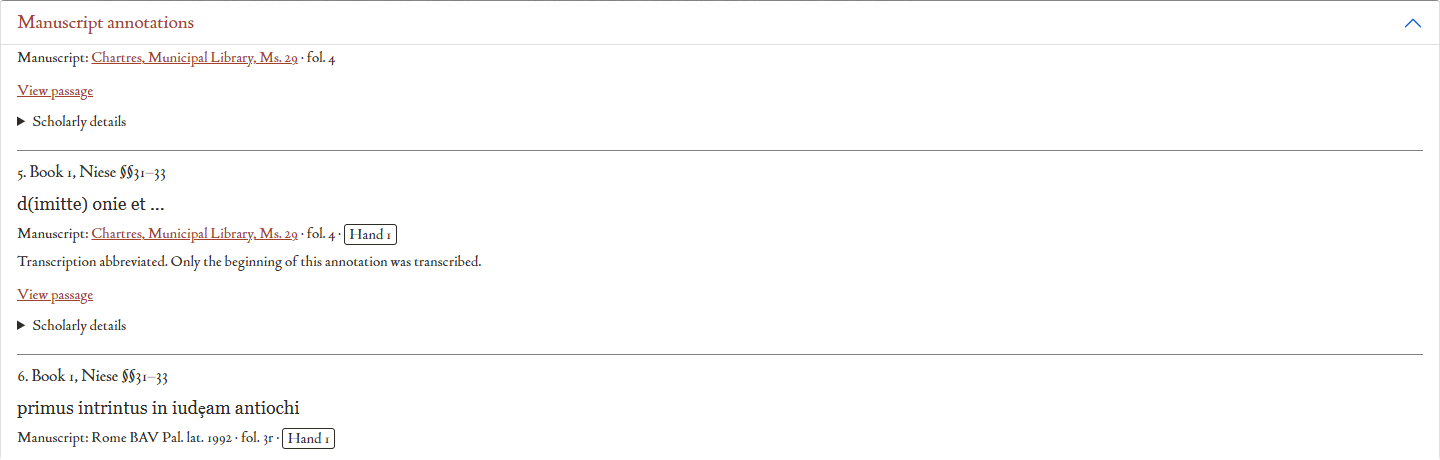
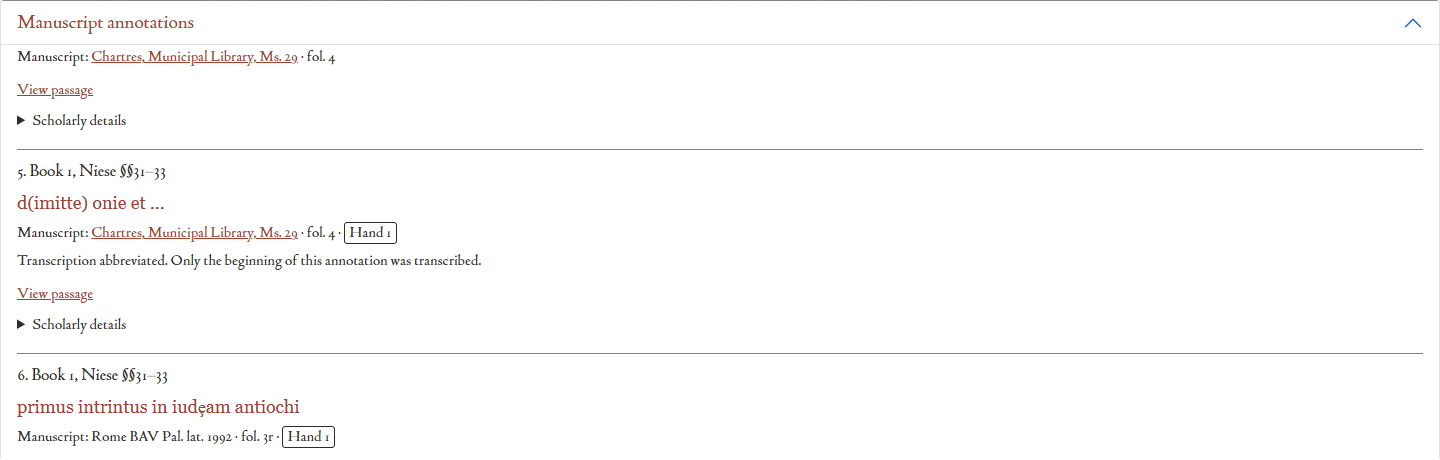
Streamline annotation wording and apply brand colours

diff --git a/assets/js/manuscriptAnnotations.js b/assets/js/manuscriptAnnotations.js
@@ -296,14 +296,19 @@
     const number = options.startNumber || 1;
     const parts = interpreted.parts.map((part, index) => {
       const anchor = `${interpreted.anchor}-at-${part.offset}`;
-      const category = part.transcriptionStatus === 'partial' ? l.partial
+      const provisional = part.provisionalReading?.[lang] || part.provisionalReading?.en;
+      const category = provisional ? null : part.transcriptionStatus === 'partial' ? l.partial
         : part.category === 'symbolic' ? l.symbolic : part.category === 'untranscribable' ? l.untranscribable
         : part.category === 'unresolved' ? l.unresolved : !part.text ? l.noTranscription : null;
       const segments = annotationTextSegments(part, lang, record.work);
-      const text = part.displayText ? escape(part.displayText) : segments.map(segment => segment.kind === 'editorial'
+      const text = provisional ? provisional.split(/(\[[^\]]+\])/u).map(segment => /^\[/u.test(segment)
+        ? `<span class="annotation-editorial-note" lang="${lang}">${escape(segment)}</span>` : escape(segment)).join('')
+        : part.displayText ? escape(part.displayText) : segments.map(segment => segment.kind === 'editorial'
         ? `<span class="annotation-editorial-note" lang="en">${escape(segment.text)}</span>` : escape(segment.text)).join('');
       const editorialOnly = segments.length && segments.every(segment => segment.kind === 'editorial');
       const description = translateEditorialDescription(part.description, lang);
+      const categoryEntry = part.category === 'symbolic' || part.category === 'untranscribable';
+      const categoryWording = categoryEntry ? [escape(description), text].filter(Boolean).join(' · ') : '';
       const handLabel = part.hand ? `${l.hand} ${part.hand}` : '';
       const codes = part.codes.map(code => `${code} = ${numberedHands[code] ? `${l.hand} ${numberedHands[code]}`
         : ({'#': l.symbolic, '§': part.transcriptionStatus === 'partial' ? l.untranscribedText : l.untranscribable})[code] || l.unresolved}`).join('; ');
@@ -314,10 +319,11 @@
         [l.completeness, part.transcriptionStatus === 'partial' ? l.partial : part.abbreviated ? l.abbreviated : part.ellipsisUnresolved ? l.uncertainEllipsis
           : part.category === 'untranscribable' ? l.untranscribable : part.category === 'symbolic' ? l.symbolic
             : !part.text ? l.noTranscription : l.recorded]];
-      if (record.editorialSource) fields.push([l.sourceRecord, record.editorialSource]);
+      if (record.editorialSource) fields.push([l.sourceRecord, `${l.recovered}; ${record.editorialSource}`]);
       if (record.editorialEvidenceUrl) fields.push([l.evidence, record.editorialEvidenceUrl]);
       if (part.editorialExplanation) fields.push([l.evidence, part.editorialExplanation[lang] || part.editorialExplanation.en]);
-      if (part.displayText) fields.push([l.originalFragment, part.text], [l.reviewedReading, part.displayText]);
+      if (part.displayText || provisional) fields.push([l.originalFragment, part.text]);
+      if (part.displayText) fields.push([l.reviewedReading, part.displayText]);
       if (part.provisionalReading) fields.push([l.provisionalReading, part.provisionalReading[lang] || part.provisionalReading.en]);
       if (ms.verificationStatus !== 'verified') fields.push([l.manuscript, lang === 'fr' ? 'Référence du manuscrit à vérifier ; désignation originale conservée' : 'Manuscript reference requires review; original designation retained']);
       if (record.originalAlignmentReference != null) fields.push([lang === 'fr' ? 'Référence source du passage' : 'Original passage source reference', record.originalAlignmentReference]);
@@ -326,13 +332,9 @@
         `<dt>${escape(key)}</dt><dd>${escape(value)}</dd>`).join('')}</dl><p>${l.original}</p><pre>${escape(interpreted.originalNotation)}</pre></details>`;
       return `<article class="manuscript-annotation" id="${escape(anchor)}" tabindex="-1" data-alignment-unit="${escape(record.alignmentUnitId)}">
         <h4><span class="annotation-number">${number + index}.</span> ${escape(citation.publicCitation)}</h4>
-        ${record.editorialSupplementId ? `<p class="annotation-status">${l.recovered}</p>` : ''}
-        ${category ? `<p class="annotation-category">${escape(category)}</p>` : ''}
-        ${part.displayText ? `<p class="annotation-status">${l.reviewedReading}</p>` : ''}
-        ${text ? `<p class="${editorialOnly ? 'annotation-description' : 'annotation-transcription'}"${part.category === 'textual' && !editorialOnly ? ' lang="la"' : ''}>${editorialOnly ? `${l.editorialNote}: ` : ''}${part.untranscribedBefore ? `<span class="annotation-editorial-note" lang="${lang}">[${l.untranscribedText}]</span> ` : ''}${text}</p>` : ''}
-        ${part.provisionalReading ? `<p class="annotation-description">${l.provisionalReading}: <span lang="la">${escape(part.provisionalReading[lang] || part.provisionalReading.en)}</span></p>` : ''}
-        ${part.editorialExplanation ? `<p class="annotation-description" lang="${lang}">${escape(part.editorialExplanation[lang] || part.editorialExplanation.en)}</p>` : ''}
-        ${description ? `<p class="annotation-description" lang="${lang}">${l.editorialNote}: ${escape(description)}</p>` : ''}
+        ${category ? `<p class="annotation-category">${escape(category)}${categoryWording ? `: <span class="annotation-wording">${categoryWording}</span>` : ''}</p>` : ''}
+        ${text && !categoryEntry ? `<p class="${editorialOnly ? 'annotation-description' : 'annotation-transcription'}"${part.category === 'textual' && !editorialOnly ? ' lang="la"' : ''}>${editorialOnly ? `${l.editorialNote}: ` : ''}${part.untranscribedBefore && !provisional ? `<span class="annotation-editorial-note" lang="${lang}">[${l.untranscribedText}]</span> ` : ''}${text}${provisional || part.displayText ? ` <span class="annotation-reading-status" lang="${lang}">(${escape((provisional ? l.provisionalReading : l.reviewedReading).toLocaleLowerCase(lang))})</span>` : ''}</p>` : ''}
+        ${description && !categoryEntry ? `<p class="annotation-description" lang="${lang}">${l.editorialNote}: ${escape(description)}</p>` : ''}
         <p class="annotation-meta">${l.manuscript}: ${ms.url ? `<a href="${ms.url}">${escape(ms.displayName)}</a>` : escape(ms.displayName)}${part.folio?.reference ? ` · fol. ${escape(part.folio.reference)}` : ''}${handLabel ? ` · <span class="annotation-hand">${escape(handLabel)}</span>` : ''}</p>
         ${part.abbreviated ? `<p class="annotation-status">${l.abbreviated}. ${l.abbreviationHelp}</p>` : ''}
         ${part.issues.length ? `<p class="annotation-status">${part.ellipsisUnresolved ? l.uncertainEllipsis : l.review}</p>` : ''}

diff --git a/_sass/_manuscript-annotations.scss b/_sass/_manuscript-annotations.scss
@@ -15,7 +15,10 @@
   .manuscript-annotation { padding: .65rem 0; border-top: 1px solid var(--global-text-color-light); }
   h4 { font-family: inherit; font-size: 1rem; line-height: 1.5; margin: 0 0 .3rem; }
   p { margin: .3rem 0; }
-  .annotation-transcription { font-family: var(--font-serif, Georgia, serif); font-size: 1.12rem; line-height: 1.6; white-space: pre-wrap; overflow-wrap: anywhere; }
+  .annotation-transcription, .annotation-wording { color: var(--lj-brand-accent, var(--global-theme-color)); font-family: var(--font-serif, Georgia, serif); font-size: 1.12rem; line-height: 1.6; }
+  .annotation-transcription { white-space: pre-wrap; overflow-wrap: anywhere; }
+  .annotation-transcription .annotation-editorial-note, .annotation-wording .annotation-editorial-note, .annotation-reading-status { color: var(--global-text-color); }
+  .annotation-reading-status { font-size: .85em; font-style: normal; }
   .annotation-category { font-style: italic; }
   .annotation-meta, .annotation-status, .annotation-description, .annotation-details { font-size: .9rem; }
   .annotation-editorial-note { font-family: inherit; font-size: .9rem; font-style: normal; }

diff --git a/_docs/annotation-display/EDITORIAL-READINGS-20261027.md b/_docs/annotation-display/EDITORIAL-READINGS-20261027.md
@@ -4,7 +4,7 @@
 
 ## Bern 118, folio 2v
 
-Original source record remains exactly `[¤2v] (§) dicit (@1) issa (#2 nota NT)`. The editor clarified that untranscribed material precedes the surviving `dicit`. The first component now displays **Partly transcribed**, with `[Untranscribed text] dicit`. The editorial proposal `david [uncertain text] dicit` appears separately as **Provisional reading**; it does not replace the source transcription, resolve the unknown middle words or assign a hand.
+Original source record remains exactly `[¤2v] (§) dicit (@1) issa (#2 nota NT)`. The editor clarified that untranscribed material precedes the surviving `dicit`. Following the requested display cleanup, the first component presents one reading: **david [uncertain text] dicit (provisional reading)**. Its partial-transcription status, surviving original fragment `dicit`, editorial explanation and complete original notation are retained in Scholarly details. The main panel does not duplicate the reading or its explanation. The proposal does not replace the source transcription, resolve the unknown middle words or assign a hand.
 
 This interpretation is guarded by the exact work, book, alignment unit, witness and original record. It is not a global reinterpretation of every § entry. The independent category and transcription-status model supports partial transcription without treating it as deliberate abbreviation.
 
@@ -24,7 +24,11 @@ The editor agreed with the facsimile-supported locations and requested their app
 
 The third entry displays the reviewed reading `issa si a uiro diuisa`. The grammatical preference for `diuisa` uses the project's Latin account of the woman's formation from Adam; it is not inferred from automated image transcription. The worksheet's `si` remains explicitly uncertain. The full exact original cell and the original fragment `issa si a uira diuisat` remain in scholarly details alongside the source workbook/cell and the [e-codices facsimile](https://www.e-codices.unifr.ch/en/fmb/cb-0098/1v).
 
-These are labelled **Recovered worksheet annotation**. They use stable presentation anchors derived from the worksheet entry, not invented canonical IDs or display numbers. The source offset selects each component without altering the cell. They are inserted after the existing entries for the relevant unit, preserving every original XML reading's relative order. Navigation and highlighting continue to cover entire alignment units.
+Their **Recovered worksheet annotation** provenance and editorial explanations appear in Scholarly details; the reviewed wording has a short inline qualification. They use stable presentation anchors derived from the worksheet entry, not invented canonical IDs or display numbers. The source offset selects each component without altering the cell. They are inserted after the existing entries for the relevant unit, preserving every original XML reading's relative order. Navigation and highlighting continue to cover entire alignment units.
+
+Actual annotation words use the site's existing `--lj-brand-accent` colour, with the existing global theme colour as fallback. Explanatory brackets and inline reading-status labels retain the normal text colour. Both site themes retain the transcription font, so colour is an additional cue rather than the only distinction. Browser checks verify text contrast of at least 4.5:1 and wrapping at 390 pixels.
+
+Symbolic entries combine their category and supplied description on one line, for example **Symbolic annotation: nota NT**. The label uses the normal text colour and the description uses the annotation accent colour. Entries marked as untranscribable likewise combine any supplied wording/description with their distinct category label. Neither category is inferred from the other, and entries without supplied wording show only their category.
 
 ## Source preservation and unresolved references
 

diff --git a/_docs/annotation-display/QA-REPORT.md b/_docs/annotation-display/QA-REPORT.md
@@ -4,6 +4,8 @@ Updated 27 October 2026. **PASS**, with the source and environment limitations b
 
 Latest Book I follow-up: **53 annotation/citation/translation tests and five Python tests pass**. The original XML inventory remains 2,958 records / 6,202 components; one component now has a confirmed partial-transcription status. Three recovered worksheet components are separately counted and displayed at their editor-reviewed citations, giving 6,205 combined display components. See [the approved editorial update report](EDITORIAL-READINGS-20261027.md). The prior certifications described below retain their recorded scope.
 
+Concise display follow-up: browser checks verify a single provisional reading with its explanation inside Scholarly details; symbolic category and supplied description on one line; accent-coloured wording with neutral editorial qualifiers; text contrast of at least 4.5:1 in both themes; and no horizontal panel overflow at 390 pixels. The data model, original notation, component counts and associations are unchanged.
+
 Current follow-up: **45 annotation/citation/translation tests and five Python citation/preservation tests pass**. Eleven additional tests verify the [editor-confirmed historical nine-hand key](HISTORICAL-HAND-KEY.md), context-sensitive `¤`, actual additional hand prefixes and the newly separated Hand 8 component. The ten translation tests audit all 216 source-description variants and preserve every recorded-text segment across all 2,958 readings. The existing corpus, DEH and search asset guards are rerun. The 565 search tests below are the previous certification of unchanged search code. See [ENGLISH-EDITORIAL-NOTES.md](ENGLISH-EDITORIAL-NOTES.md).
 
 ## Preservation and interpretation
@@ -46,7 +48,7 @@ The original redesign certification comprises **594 Node/Python tests**, plus th
 
 ## Visual checks
 
-The current browser run produced 22 screenshots covering ten before/after examples plus desktop dark mode and mobile dark mode. Two additional English-editorial images remain available. [Screenshot index](SCREENSHOTS.md).
+The main browser run produced 22 screenshots covering ten before/after examples plus desktop dark mode and mobile dark mode. Additional English-editorial, approved Book I and concise-layout images are available in the [screenshot index](SCREENSHOTS.md).
 
 Images were inspected after rendering. They include actual Hands 1, 2, 3, 5, 6 and 8, the newly separated Bodmer component, several annotations on the same folio side, symbolic and untranscribable entries, and the supported Chartres abbreviated transcription. Hands 4, 7 and 9 are absent from the source readings and are not fabricated for screenshots. Panel spacing and focus offsets were corrected during the initial visual review. Theme transitions were disabled only during screenshot capture, so captured colours represent the settled interface. Mobile panel overflow was checked at 390 pixels.
 

diff --git a/_docs/annotation-display/CHANGE-REPORT.md b/_docs/annotation-display/CHANGE-REPORT.md
@@ -6,6 +6,10 @@ Implementation commit: `46ec691d6bce48af0d93191e2eca7453223fb3d8`. It contains t
 
 ## Result
 
+Display cleanup: the editor-requested concise layout presents the provisional Bern reading once, with its qualification inline. Explanations, partial-transcription status and recovery provenance remain in Scholarly details. All annotation words use the site accent colour, adapted to light/dark mode; editorial qualifiers use the normal text colour. No scholarly data or interpretation changed in this cleanup.
+
+Symbolic and untranscribable entries combine their distinct category label and any supplied description/wording on one line. In **Symbolic annotation: nota NT**, the supplied `nota NT` uses the same accent colour as other annotation wording.
+
 Approved Book I follow-up: Bern 118's `§ dicit` now identifies a partial transcription and separately labels the editor's provisional David reading. Three recovered Bodmer 98 worksheet annotations appear at their reviewed existing alignment units; `uiro diuisa` is the reviewed reading and `si` remains uncertain. Original XML and the complete worksheet notation are preserved. The missing note targets remain unresolved. See [the editorial update report](EDITORIAL-READINGS-20261027.md). The suite now has 53 annotation/citation/translation tests plus five Python tests.
 
 Historical hand-key follow-up, 27 October: the editor confirmed the exact sequence through Hand 9. The shared interpreter now recognises the additional codes in annotation prefixes, keeps the bracketed `¤` folio role distinct, and separates the explicit `(³1)yo` component in Bodmer 98. All 84 observed additional prefixes resolve as Hands 5, 6 and 8. No Hand 4, 7 or 9 annotations are invented. See [the evidence and preservation report](HISTORICAL-HAND-KEY.md). The current suite has 45 annotation/citation/translation tests and five Python citation/preservation tests, all passing.

diff --git a/_docs/annotation-display/SCREENSHOTS.md b/_docs/annotation-display/SCREENSHOTS.md
@@ -23,4 +23,10 @@ Approved Book I follow-up: [Bern partial transcription and provisional David rea
 
 [Relaunched local reader in context](screenshots/reader-relaunched.png) shows the user-facing preview open at the updated Book I passage.
 
+Concise display follow-up: [light mode](screenshots/bern-clean-light.png), [dark mode](screenshots/bern-clean-dark.png), [mobile dark mode](screenshots/bern-clean-mobile.png). The provisional reading appears once, while the explanation stays in Scholarly details. Annotation wording uses the site's accent colour.
+
+[Compact symbolic annotation](screenshots/symbolic-clean-after.png) shows the category and coloured supplied description on one line.
+
+[Updated reader in context](screenshots/reader-cleaned.png) shows the concise symbolic entry in the user-facing local preview.
+
 Visual review verified readable transcription, separate folio and Niese references, restrained hand labels, independent categories, underlined links, wrapped manuscript designations, expandable details and a panel that reserves space for passage links beneath it. Native details were opened and closed with the keyboard. Animation was disabled during capture to avoid judging intermediate theme-transition colours.
